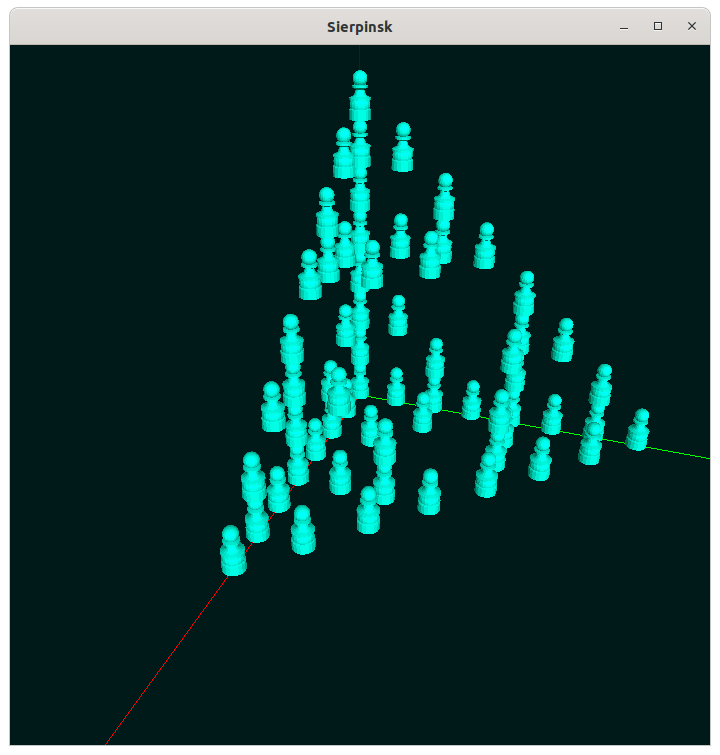
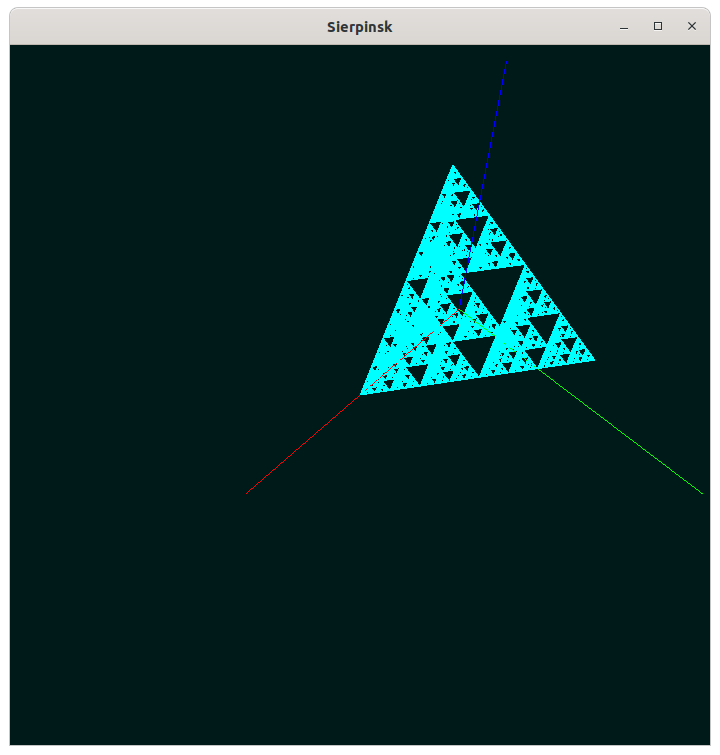
Replace custom recursive implementation by glutWireSierpinskiSponge
The routine `glutWireSierpinskiSponge` was copied and adapted from
[Free OpenGL Utility Toolkit 2.4.0](https://sourceforge.net/projects/freeglut/files/freeglut/2.4.0/)
(freeglut-2.4.0).

For licensing information, check out the file COPYING from that
repository.

Changed region(s): [[0.3056, 0.0914, 0.9167, 0.7616], [0.5806, 0.6093, 0.6111, 0.7007]]

diff --git a/pirâmide/SIERPI~1_private.h b/pirâmide/SIERPI~1_private.h
@@ -1,0 +1,23 @@
+// THIS FILE WILL BE OVERWRITTEN BY DEV-C++!
+// DO NOT EDIT!
+
+#ifndef SIERPI~1_PRIVATE_H
+#define SIERPI~1_PRIVATE_H
+
+// VERSION DEFINITIONS
+#define VER_STRING	"0.1.1.1"
+#define VER_MAJOR	0
+#define VER_MINOR	1
+#define VER_RELEASE	1
+#define VER_BUILD	1
+#define COMPANY_NAME	""
+#define FILE_VERSION	""
+#define FILE_DESCRIPTION	"Developed using the Dev-C++ IDE"
+#define INTERNAL_NAME	""
+#define LEGAL_COPYRIGHT	""
+#define LEGAL_TRADEMARKS	""
+#define ORIGINAL_FILENAME	""
+#define PRODUCT_NAME	""
+#define PRODUCT_VERSION	""
+
+#endif //SIERPI~1_PRIVATE_H
